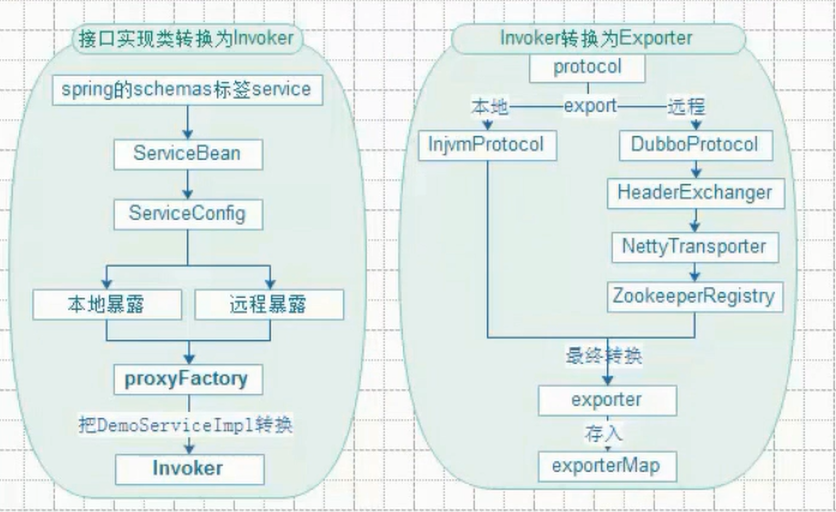
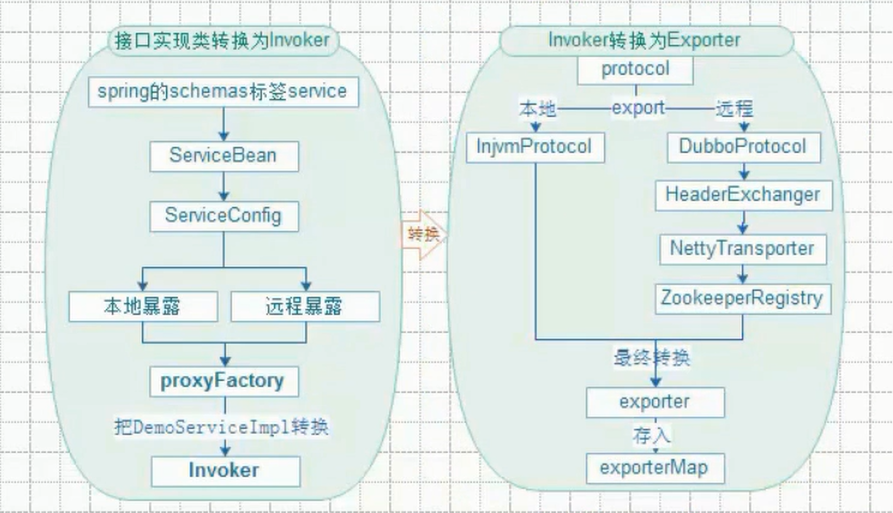
Dubbo服务发布整体架构图

Changed region(s): [[0.0, 0.0, 1.0, 1.0]]

diff --git a/Note/001、Dubbo架构原理.md b/Note/001、Dubbo架构原理.md
@@ -3,6 +3,9 @@
 ### Dubbo SPI实现使用的设计模式
 ![avatar](./pic/014_dubbo.png)
 
+### Dubbo服务发布 整体架构图
+![avatar](./pic/034_dubbo.png)
+
 ### Dubbo项目编译
 ```text
 1、在控制台中输入以下内容
